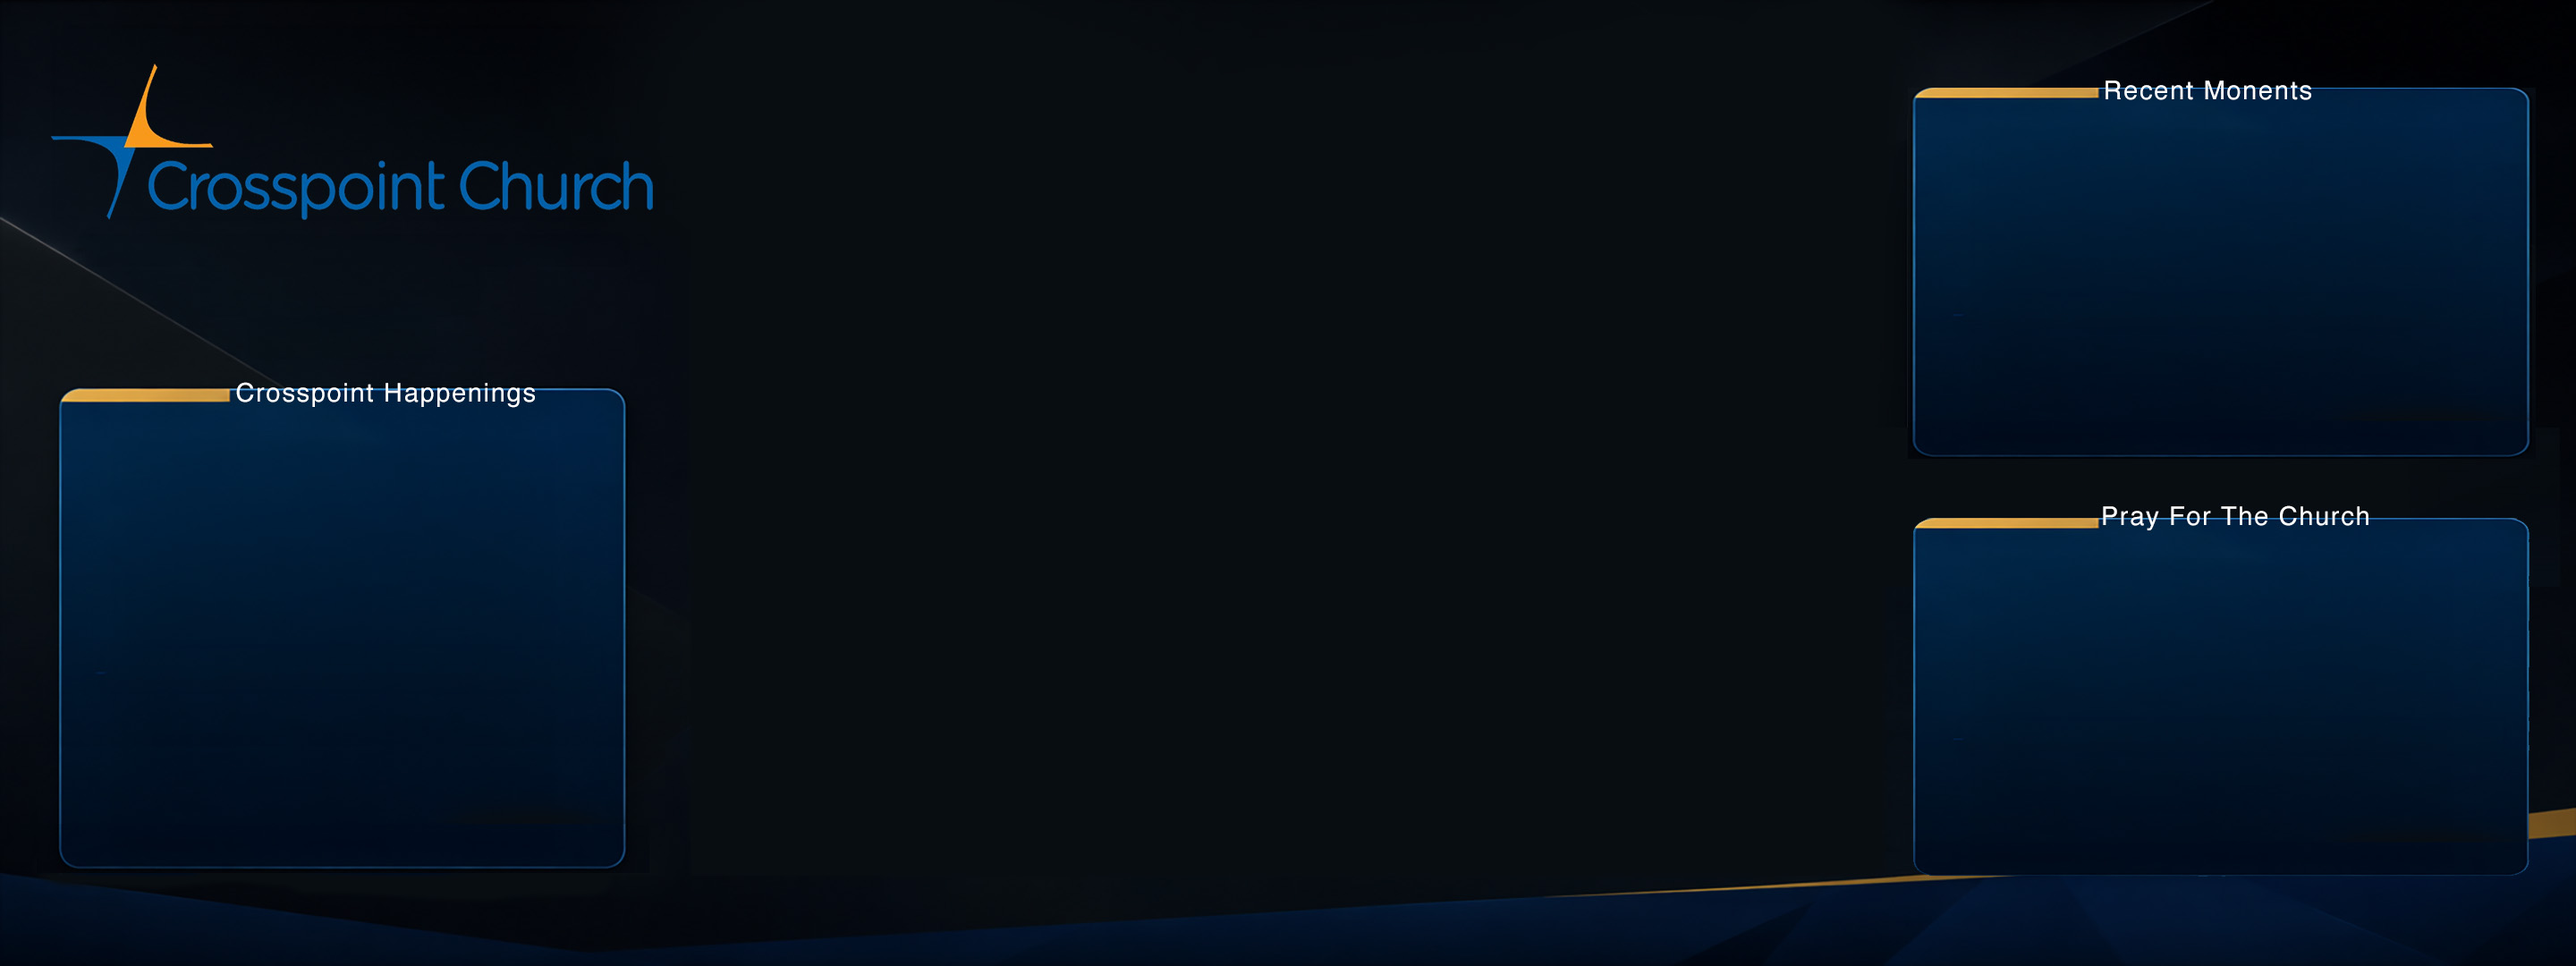
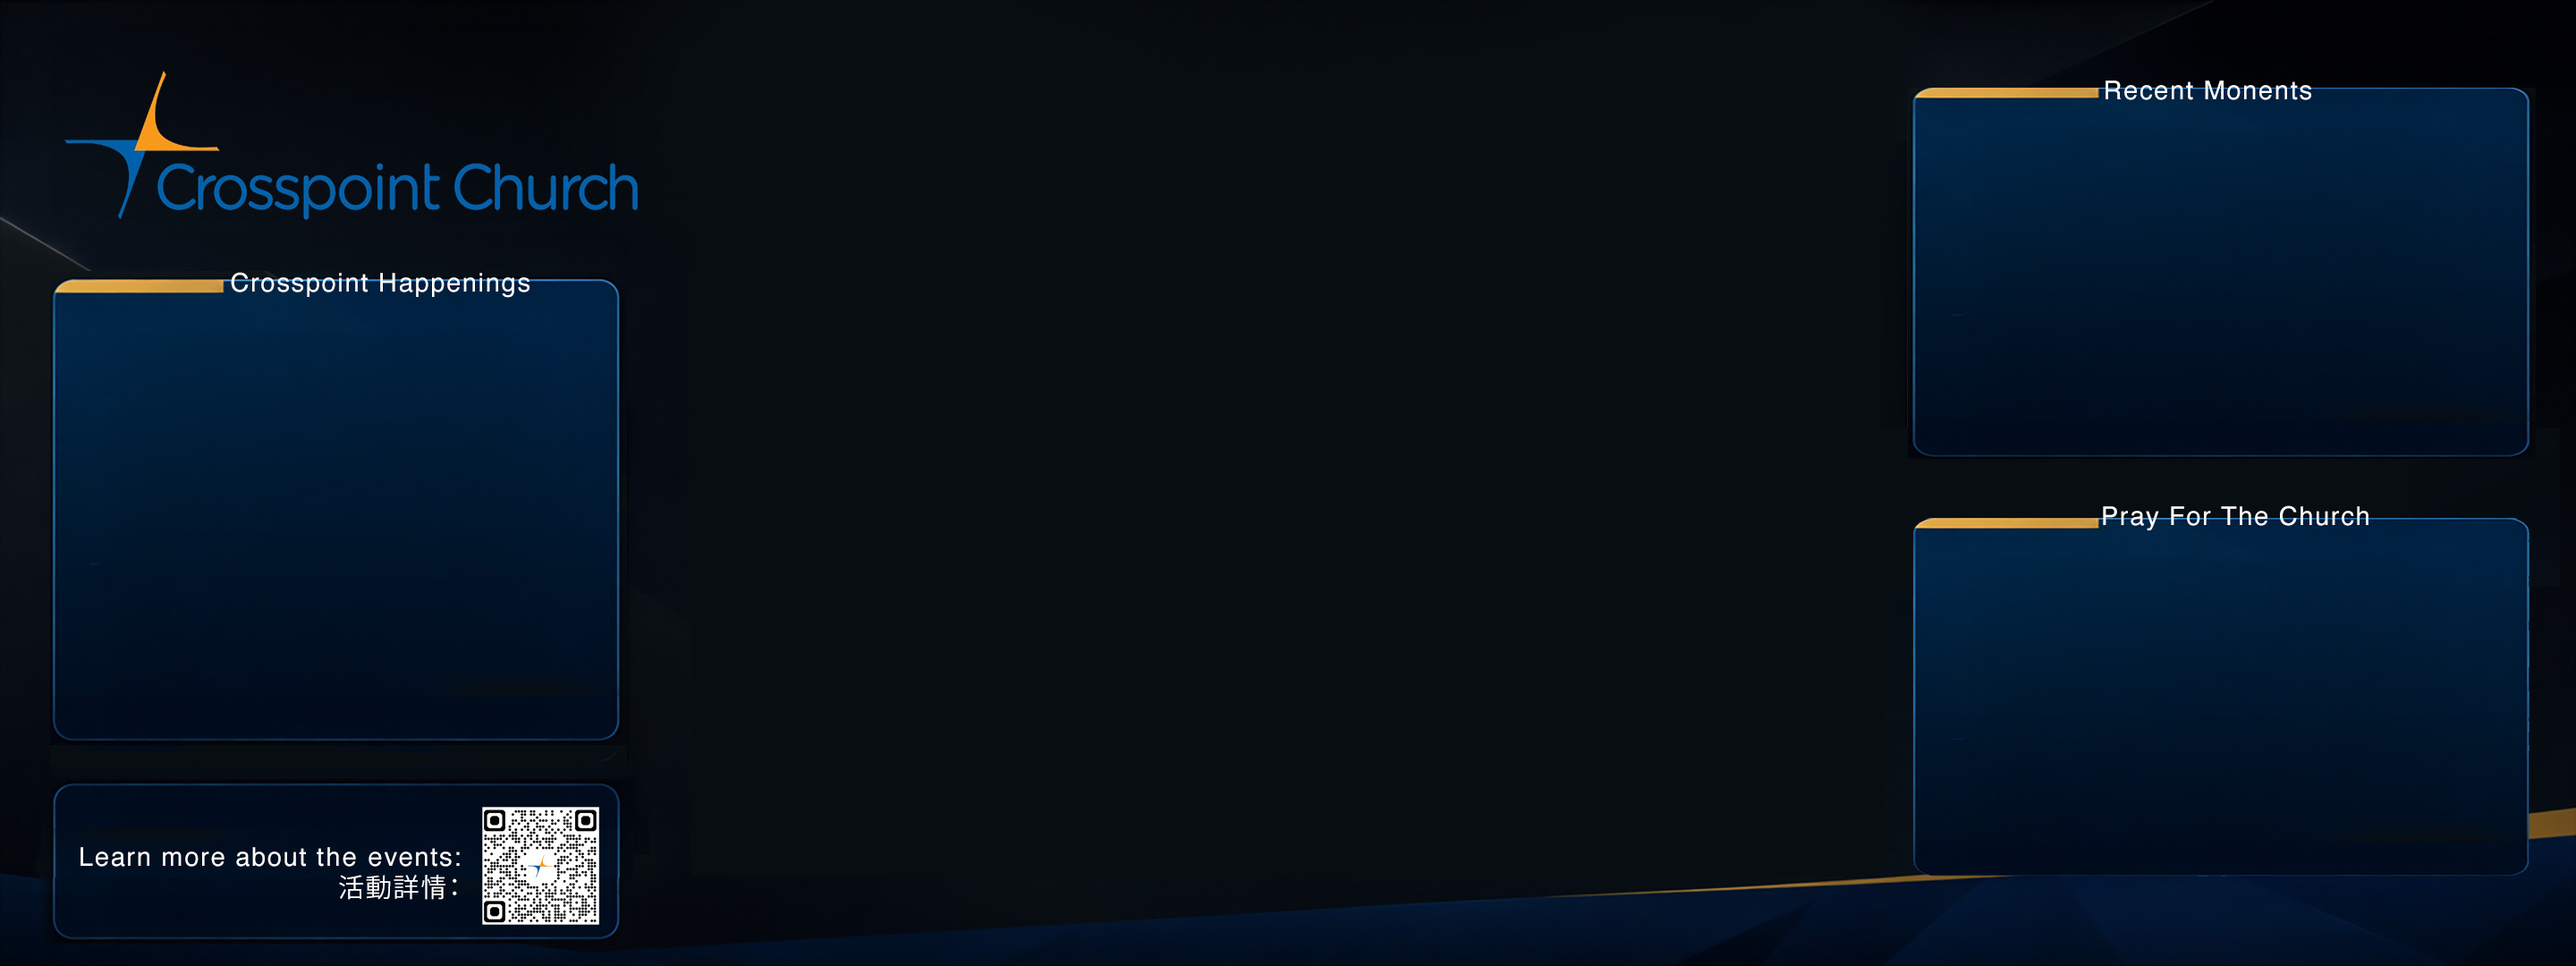
fix: update zone positions and wall background

Changed region(s): [[0.0, 0.275, 0.25, 0.5194], [0.0312, 0.7333, 0.25, 0.9778], [0.0312, 0.0917, 0.25, 0.2139]]

diff --git a/public/zone-positions.css b/public/zone-positions.css
@@ -13,7 +13,7 @@
   --middle-h: 884px;
 
   --left-x: 115px;
-  --left-y: 513px;
+  --left-y: 373px;
   --left-w: 551px;
   --left-h: 407px;
 
